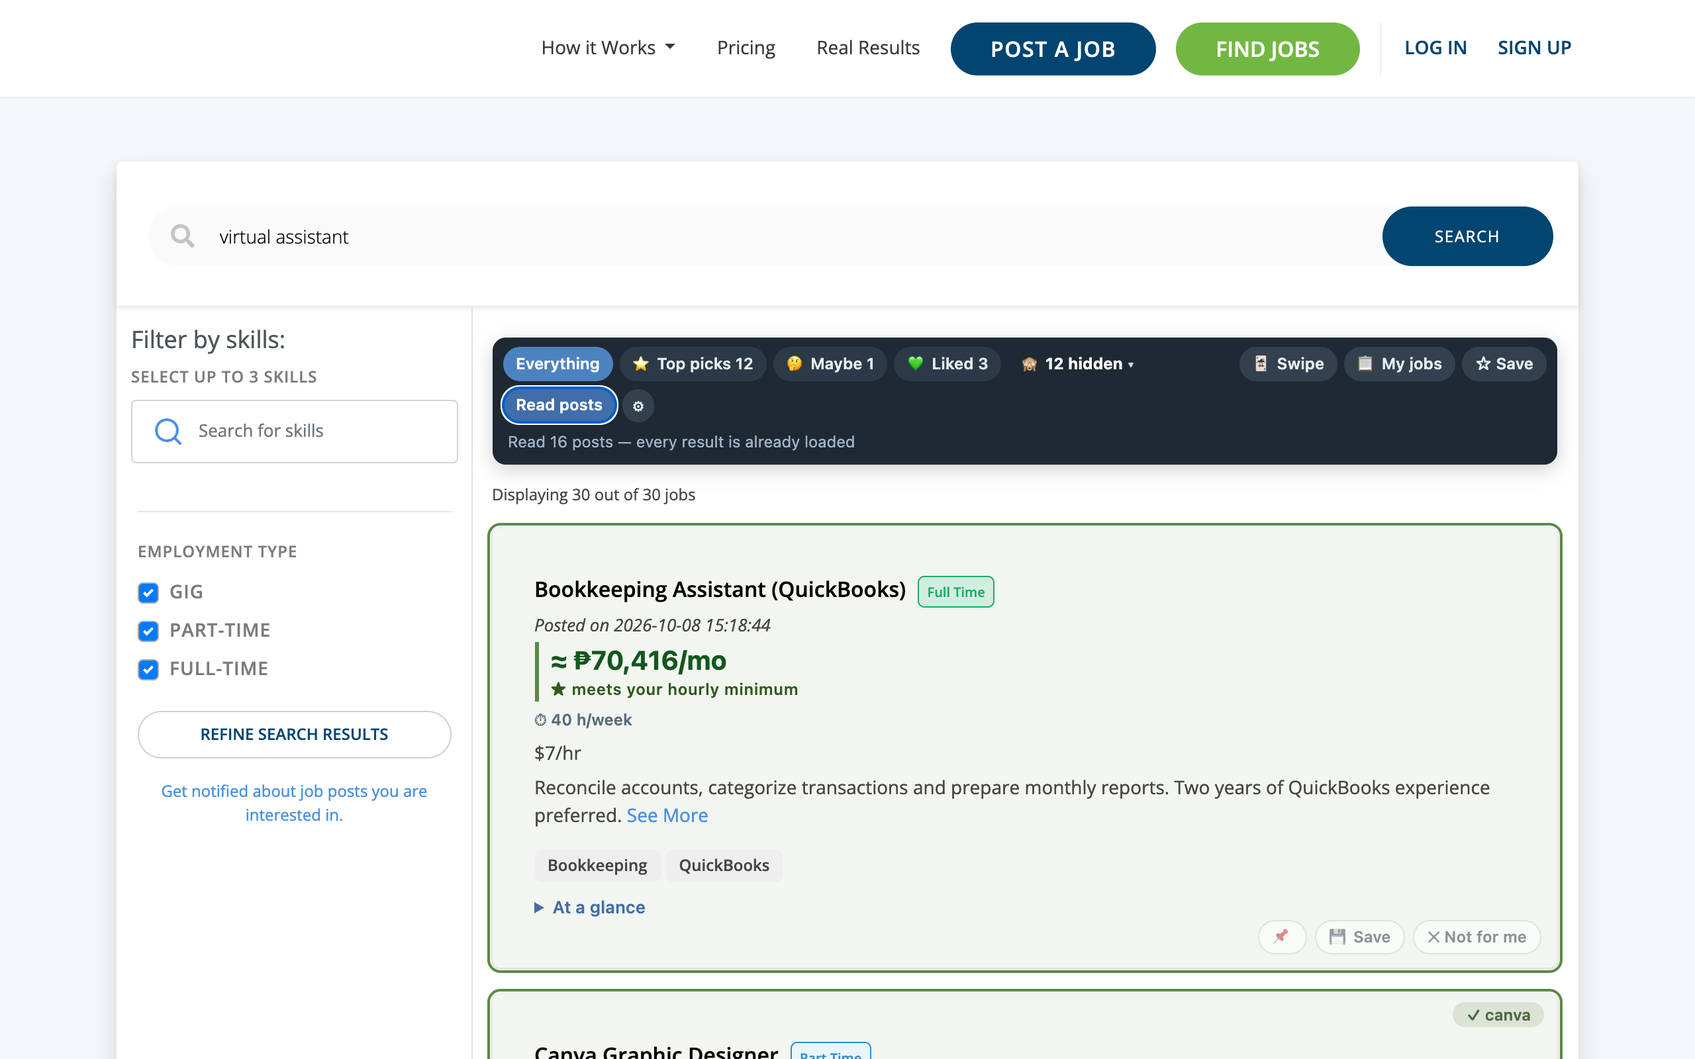
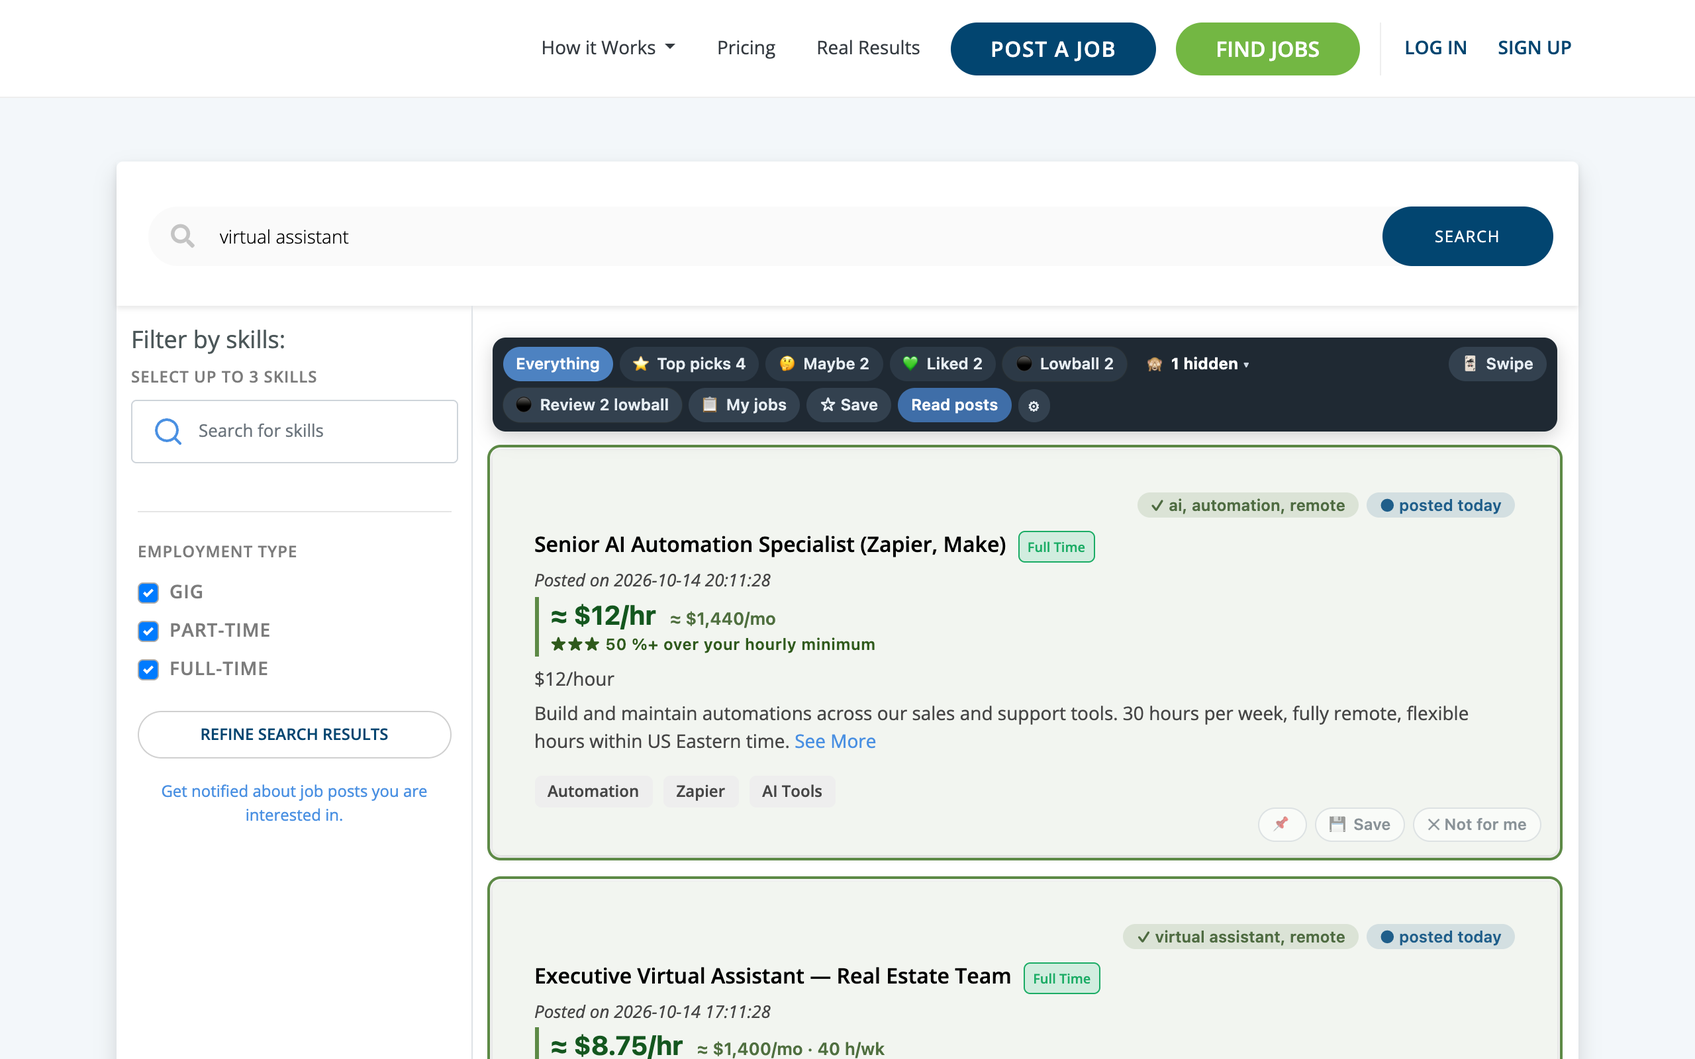
0.18.1: new README and store media on a made-up board; store copy for the hourly rate
- Every screenshot, both README GIFs (the bar, the five-screen setup) and all five
  store images re-recorded on invented listings: tools/fiction.mjs replaces the board
  with 12 made-up jobs (no company names, no logos, the site's logo hidden), so no
  real employer appears. capture-screens.js uses it unless --live; record-gifs.mjs
  is new and records the GIFs the same way. New shots: the one-at-a-time lowball
  review and setup's kind-of-work screen (store screenshots 4 and 5).
- Store summary and description lead with the real hourly rate, lowball reporting
  one listing at a time, presets and gigs; data disclosure names the one write.
- Currency conversion keeps centavos: "$12/hour" no longer shows as $12.01/hr.
- The "Let's report" prompt no longer states a count it could get wrong.

diff --git a/tools/capture-screens.js b/tools/capture-screens.js
@@ -24,9 +24,12 @@
 //   --keep-settings       do not restore the previous settings afterwards
 //   --scan                press Scan and wait for it to finish before capturing. Slow, and it
 //                         reads listing pages for real — off by default.
+//   --live                capture the REAL board. Off by default: the media are recorded on a made-up board
+//                         (tools/fiction.mjs) so no real employer ever appears in the README or the store.
 'use strict';
 
 import { openTab, withTab } from './cdp.mjs';
+import { FICTION_SETTINGS, applyFiction } from './fiction.mjs';
 import fs from 'node:fs';
 import path from 'node:path';
 
@@ -41,6 +44,7 @@ const URL_ = arg('url', 'https://www.onlinejobs.ph/jobseekers/jobsearch?jobkeywo
 const KEEP = flag('keep-settings');
 const DO_SCAN = flag('scan');
 const DO_RELOAD = flag('reload');
+const FICTION = !flag('live');
 
 const HERE = path.dirname(new URL(import.meta.url).pathname.replace(/^\/([A-Za-z]:)/, '$1'));
 const OUT = path.resolve(HERE, '..', 'docs/img');
@@ -116,7 +120,7 @@ async function restore() {
 }
 
 try {
-  await store.evaluate(`chrome.storage.local.set({ settings: ${JSON.stringify(SETTINGS)} }).then(()=>1)`);
+  await store.evaluate(`chrome.storage.local.set({ ui: { onboarded: true }, settings: ${JSON.stringify(FICTION ? FICTION_SETTINGS : SETTINGS)} }).then(()=>1)`);
 
   console.log('\nscreenshots:');
   await withTab(PORT, 'about:blank', async (tab) => {
@@ -131,6 +135,10 @@ try {
     // The rule pass is rAF-scheduled and salary conversion waits on the FX rate; give both
     // time to settle so the capture shows final figures rather than skeletons.
     await sleep(3000);
+    if (FICTION) { console.log('  ' + await applyFiction(tab)); await sleep(5000); }
+    // The "Let's report them" prompt is a toast over the board — close it so it covers no card in the shots.
+    await tab.evaluate(`(()=>{const t=document.querySelector('#ojc-toast button[aria-label=Dismiss]'); if(t) t.click(); return 1})()`);
+    await sleep(300);
 
     if (DO_SCAN) {
       console.log('  running Scan (this reads listing pages for real)…');
@@ -162,7 +170,7 @@ try {
     // rect read in the same call as scrollIntoView() is measured mid-animation and the clip
     // lands offset from the card.
     const scrolled = await tab.evaluate(`(()=>{
-      const mark = document.querySelector('.ojc-pos, .ojc-recon, .ojc-tier-badge, .ojc-pos-badge');
+      const mark = [...document.querySelectorAll('.jobpost-cat-box.latest-job-post')].find(c => /Executive Virtual Assistant/.test(c.textContent)) || document.querySelector('.ojc-pos, .ojc-recon, .ojc-tier-badge, .ojc-pos-badge');
       if (!mark) return 0;
       const card = mark.closest('.jobpost-cat-box.latest-job-post') || mark.parentElement;
       card.scrollIntoView({ block: 'center', behavior: 'instant' });
@@ -175,13 +183,13 @@ try {
       // make-store-images letterboxes it onto the 1280x800 canvas instead.
       await tab.send('Emulation.setDeviceMetricsOverride', { ...VIEW, width: 1680, height: 1050 });
       await tab.evaluate(`(()=>{
-        const mark = document.querySelector('.ojc-pos, .ojc-recon, .ojc-tier-badge, .ojc-pos-badge');
+        const mark = [...document.querySelectorAll('.jobpost-cat-box.latest-job-post')].find(c => /Executive Virtual Assistant/.test(c.textContent)) || document.querySelector('.ojc-pos, .ojc-recon, .ojc-tier-badge, .ojc-pos-badge');
         const card = mark.closest('.jobpost-cat-box.latest-job-post') || mark.parentElement;
         card.scrollIntoView({ block: 'center', behavior: 'instant' });
         return 1})()`);
       await sleep(900);
       const cardRect = JSON.parse(await tab.evaluate(`(()=>{
-        const mark = document.querySelector('.ojc-pos, .ojc-recon, .ojc-tier-badge, .ojc-pos-badge');
+        const mark = [...document.querySelectorAll('.jobpost-cat-box.latest-job-post')].find(c => /Executive Virtual Assistant/.test(c.textContent)) || document.querySelector('.ojc-pos, .ojc-recon, .ojc-tier-badge, .ojc-pos-badge');
         const card = mark.closest('.jobpost-cat-box.latest-job-post') || mark.parentElement;
         const r = card.getBoundingClientRect();
         return JSON.stringify({ x: Math.max(0, r.x + window.scrollX), y: Math.max(0, r.y + window.scrollY),
@@ -195,6 +203,15 @@ try {
     }
 
     // The settings panel, clipped to its own box so the shot is the panel and nothing else.
+    // D73: the one-at-a-time lowball review, on the first lowball card.
+    const reviewed = await tab.evaluate(`(()=>{const b=document.getElementById('ojc-report-low'); if(!b||b.hidden) return 0; b.click(); return 1})()`);
+    if (reviewed) {
+      await sleep(1500);
+      await shot(tab, path.join(OUT, 'lowball-review.png'));
+      await tab.evaluate(`(()=>{const s=document.querySelector('.ojc-review-stop'); if(s) s.click(); const t=document.querySelector('#ojc-toast button[aria-label=Dismiss]'); if(t) t.click(); window.scrollTo(0,0); return 1})()`);
+      await sleep(800);
+    } else console.log('  (no lowball on this page — skipping lowball-review.png)');
+
     await tab.evaluate(`(()=>{const g=document.getElementById('ojc-gear'); if(g) g.click(); return 1})()`);
     await waitFor(tab, `document.getElementById('ojc-panel') && !document.getElementById('ojc-panel').hidden`,
       { timeout: 8000, label: 'the options panel (#ojc-panel)' });
@@ -234,6 +251,15 @@ try {
       if(b) { b.style.maxHeight = ''; b.style.overflowY = ''; }
       return 1})()`);
     await tab.send('Emulation.setDeviceMetricsOverride', VIEW);
+    await sleep(300);
+
+    // D68: setup's first screen, with two kinds of work picked.
+    await tab.evaluate(`(()=>{const r=document.getElementById('ojc-rerun-setup'); if(r) r.click(); return 1})()`);
+    await sleep(900);
+    await tab.evaluate(`(()=>{for (const t of ['General VA','Customer Support']) { const b=[...document.querySelectorAll('.ojc-archebtn')].find(x=>x.textContent.includes(t)); if(b) b.click(); } return 1})()`);
+    await sleep(600);
+    await shot(tab, path.join(OUT, 'setup-presets.png'));
+    await tab.evaluate(`(()=>{const s=document.getElementById('ojc-setup-skip'); if(s) s.click(); return 1})()`);
     await sleep(300);
     await tab.send('Emulation.clearDeviceMetricsOverride');
   }, 0);

diff --git a/test-salary.js b/test-salary.js
@@ -83,8 +83,8 @@ assert.strictEqual(parseSalary('$5+/- per hour US - depends on experience & skil
 assert.deepStrictEqual(monthly('$5+/- per hour US - depends on experience & skills', FT), [800, 800, 'USD'],
   'full time → 5 × 160');
 assert.strictEqual(toPhp(parseSalary('$5/hour'), { USD: 62.7 }), null, 'no hours → toPhp refuses');
-assert.deepStrictEqual(ratePhp(parseSalary('$5/hour'), { USD: 62.7 }), { min: 314, max: 314 },
-  'the posted rate itself is still converted and shown');
+assert.deepStrictEqual(ratePhp(parseSalary('$5/hour'), { USD: 62.7 }), { min: 313.5, max: 313.5 },
+  'the posted rate itself is still converted and shown — to the centavo, so $5 comes back as $5.00');
 assert.strictEqual(formatRate({ min: 314, max: 314 }, 'hour'), '≈ ₱314/hr');
 assert.strictEqual(formatNote(null), null);
 // with the hours, the same listing gets a month
@@ -150,6 +150,9 @@ for (const timeUnit of ['Php200.00 - 210.00 Per Hour', 'Php 1000/day', '$5/hr', 
 assert.deepStrictEqual(toPhp(parseSalary('Php 30,000'), {}), { min: 30000, max: 30000 }, 'PHP needs no rate');
 assert.strictEqual(toPhp(parseSalary('$880'), {}), null, 'no rate → no converted figure, never a guess');
 assert.deepStrictEqual(toPhp(parseSalary('$880'), { USD: 62.7 }), { min: 55176, max: 55176 });
+// Round trip: a posted dollar rate shown in dollars is the posted rate, not a cent off (was "$12.01/hr" for $12).
+assert.strictEqual(formatRate(ratePhp(parseSalary('$12/hour'), { USD: 62.738 }), 'hour', { code: 'USD', rate: 62.738 }), '≈ $12/hr');
+assert.strictEqual(formatRate(ratePhp(parseSalary('$3/hour'), { USD: 62.738 }), 'hour', { code: 'USD', rate: 62.738 }), '≈ $3/hr');
 assert.deepStrictEqual(toPhp(parseSalary('$10 - $13 CAD per hour', FT), { USD: 62.7 }), null,
   'a CAD card must not be converted with a USD rate');
 

diff --git a/tools/make-store-images.js b/tools/make-store-images.js
@@ -107,6 +107,8 @@ const SHOT_JOBS = [
   ['list-chip.png', 'scale=1280:800:force_original_aspect_ratio=increase,crop=1280:800', '01-list-1280x800.png'],
   ['panel-in-page.png', 'scale=1280:800:force_original_aspect_ratio=increase,crop=1280:800', '02-settings-1280x800.png'],
   ['card-detail.png', FIT(), '03-card-1280x800.png'],
+  ['lowball-review.png', 'scale=1280:800:force_original_aspect_ratio=increase,crop=1280:800', '04-lowball-1280x800.png'],
+  ['setup-presets.png', 'scale=1280:800:force_original_aspect_ratio=increase,crop=1280:800', '05-setup-1280x800.png'],
 ];
 for (const [src, chain, dst] of SHOT_JOBS) {
   ffmpeg(['-i', path.join(SHOTS, src), '-vf', chain, '-frames:v', '1', path.join(OUT, dst)]);
@@ -130,7 +132,7 @@ shoot(frameHtml({
       Stop reading<br>dead listings.
     </div>
     <div style="margin-top:15px;font-size:12.5px;line-height:1.5;color:rgba(255,255,255,.76)">
-      Hides the stale, the unpaid and the keywords you hate. Highlights the ones worth your time.
+      Every job's real hourly rate, first. Hides the stale, the unpaid and the words you hate.
     </div>
   </div>`,
 }), 440, 280, path.join(OUT, 'promo-440x280.png'));
@@ -147,7 +149,7 @@ shoot(frameHtml({
       Stop reading<br>dead listings.
     </div>
     <div style="margin-top:24px;font-size:17px;line-height:1.6;color:rgba(255,255,255,.74);max-width:520px">
-      Hides the stale, the unpaid and the keywords you hate. Highlights the ones worth your time. Re-reads every listing in full when you ask it to.
+      Every job's real hourly rate, worked out from its own hours. Hides the stale, the unpaid and the words you hate, and flags lowball offers you can report.
     </div>
   </div>
   <div style="position:absolute;left:700px;top:64px;width:640px;height:432px;

diff --git a/labels.js b/labels.js
@@ -94,7 +94,9 @@
       check: '⚫? checking hours',
       checkTip: (floor) => `a monthly figure that could be under ${floor}/hour — the extension reads the post's own ` +
         'HOURS PER WEEK before calling it a lowball (Read posts opens these first)',
-      nudge: (n) => `⚫ ${n} lowball offer${n === 1 ? '' : 's'} on this board. Let's report ${n === 1 ? 'it' : 'these'}!`,
+      // No count: the prompt fires as the first lowball is marked, before the rest of the board's pay is worked out,
+      // and a number there was wrong ("1 lowball offer" on a board with 2). The bar's ⚫ pill holds the live count.
+      nudge: () => '⚫ This board has lowball offers. Let\'s report them!',
       nudgeBtn: 'Review them',
       bulk: (n) => `⚫ Review ${n} lowball`,
       bulkTip: 'go through the lowball listings on this board one at a time — you see each one and decide: Report, Skip or Stop',

diff --git a/salary.js b/salary.js
@@ -200,7 +200,10 @@
     if (currency === 'PHP') return { min: amount.min, max: amount.max };
     const rate = rates && rates[currency];
     if (!rate) return null;
-    return { min: Math.round(amount.min * rate), max: Math.round(amount.max * rate) };
+    // To the centavo, not the peso: whole pesos lost up to half a peso, and "$12/hour" came back as "$12.01/hr" and
+    // "$3/hour" as "$2.99/hr" beside a lowball tag saying $3.00 (seen 2026-10-14). Whole-peso DISPLAY is formatNote's job.
+    const c = (n) => Math.round(n * rate * 100) / 100;
+    return { min: c(amount.min), max: c(amount.max) };
   }
 
   /**

diff --git a/docs/store.md b/docs/store.md
@@ -11,10 +11,13 @@ change; the copy below is drop-in.
 | Screenshot 1 | **1280×800** (or 640×400), square corners, full bleed | `docs/img/store/01-list-1280x800.png` | ✅ |
 | Screenshot 2 | same | `docs/img/store/02-settings-1280x800.png` | ✅ |
 | Screenshot 3 | same | `docs/img/store/03-card-1280x800.png` | ✅ |
+| Screenshot 4 | same | `docs/img/store/04-lowball-1280x800.png` | ✅ |
+| Screenshot 5 | same | `docs/img/store/05-setup-1280x800.png` | ✅ |
 | Small promo tile | **440×280** — **required** | `docs/img/store/promo-440x280.png` | ✅ |
 | Marquee promo tile | 1400×560 — optional, front page | `docs/img/store/marquee-1400x560.png` | ✅ |
 
-At least 1 screenshot is required; 5 is the maximum, so there is room for two more later.
+At least 1 screenshot is required; 5 is the maximum, and all five are used. Every image is recorded
+on a made-up board (`tools/fiction.mjs`), so no real employer appears.
 Slot 1 is the list in context, slot 2 is the settings panel open over the live list, and slot 3
 is a single card up close (letterboxed onto the 1280×800 canvas — a result card is ~1608×584,
 so no 1.6:1 crop of one shows it whole without slicing the description mid-sentence).
@@ -22,8 +25,10 @@ so no 1.6:1 crop of one shows it whole without slicing the description mid-sente
 **Retake the captures, then cut them to size:**
 
 ```bash
-node tools/capture-screens.js        # drives the live site → docs/img/*.png
-node tools/make-store-images.js      # → icons/ + docs/img/store/
+OJC_SANDBOX_PORT=9454 node tools/sandbox.mjs              # a throwaway Chrome with this checkout
+node tools/capture-screens.js --port=9454                  # the made-up board → docs/img/*.png
+node tools/record-gifs.mjs --port=9454                     # → docs/img/bar.gif, setup.gif
+CHROME_BIN="/Applications/Google Chrome.app/Contents/MacOS/Google Chrome" node tools/make-store-images.js
 ```
 
 `capture-screens.js` drives the automation Chrome on :9333 (see `docs/HANDOFF.md` §2), opens its
@@ -48,10 +53,10 @@ The name is deliberately our own compound. `OnlineJobs.ph` appears **only in the
 description**, as a statement of compatibility — never in the name, and never as a claim of
 association. See §5.
 
-**Summary** (`manifest.json` → `description`, **hard limit 132 chars** — currently 126):
+**Summary** (`manifest.json` → `description`, **hard limit 132 chars** — currently 120):
 
 ```
-Hides stale, no-salary and keyword-matching jobs on OnlineJobs.ph, highlights the ones you want, and re-reads listings in full
+See every OnlineJobs.ph job's real hourly rate, hide stale, unpaid and unwanted posts, and flag lowball offers to report
 ```
 
 **Detailed description** (paste into the listing):
@@ -72,15 +77,21 @@ WHAT IT DOES
   the counts, filters to any of them, and never covers a listing.
 
 • Hides what you never want to read. Too old (60 days by default), no pay listed ("TBD",
-  "Negotiable", "DOE" — a label is not a number), and the words you block — matched as whole
-  words, so "ai" never matches "email". "Peek at hidden" shows everything it took away.
+  "Negotiable", "DOE" — a label is not a number), gigs that state no hours, and the words you
+  block — matched as whole words, so "ai" never matches "email". "Peek at hidden" shows
+  everything it took away.
 
-• Shows what a listing actually pays — in pesos or US dollars, your choice. "5.5$/hr",
-  "Php 1000/day" and "15-20 AUD per hour" become one comparable figure at the ECB's daily
-  reference rate, next to the site's own wording, which is never replaced.
+• Shows every job's real hourly rate, first. "5.5$/hr", "PHP 20,000 per month" and "15-20 AUD
+  per hour" become one comparable figure per hour, in pesos or US dollars, at the ECB's daily
+  reference rate. A monthly salary is divided by the post's OWN stated hours — so ₱20,000 for
+  45 hours a week reads ≈ $1.77/hr, and you can compare jobs that offer different hours.
 
-• Does not guess. A part-time rate that doesn't state its hours stays an hourly rate, and a
-  month assumed from "full time" says so on the card.
+• Never guesses a 40-hour week. "Full Time" is not a number: until a post's hours are known the
+  card shows "? /hr" with the month beside it, and Read posts goes and reads those posts first.
+
+• Flags lowball offers. A job that works out at $2/hr or less (your line) gets a black ⚫
+  outline. Report it to OnlineJobs.ph as "Salary too low" with the site's own report feature —
+  one listing at a time, each shown to you before anything is sent. Gigs are never judged.
 
 • Reads the full posts for you, on your terms. Two at a time, inside your recency window, with
   hard caps and a Stop button — then re-sorts every listing by its full description and ranks
@@ -102,7 +113,10 @@ WHAT IT DOES
 • Checks all your saved searches at once, when you press the button: their new listings join
   the board you are on, de-duplicated, one request at a time.
 
-• First run takes 30 seconds: what you're hunting, the least you'd take, and your instant no's.
+• First run takes a minute: pick your kind of work (15 presets, from General VA to Medical VA)
+  and your experience level, and both keyword lists fill themselves in. Then the least you'd
+  take, and your instant no's. Words match as whole words, plurals included; design* widens a
+  word, =lead pins it.
 
 PRIVACY
 
@@ -112,8 +126,8 @@ PRIVACY
 • The only third-party call is a public exchange rate (ECB, via frankfurter.dev), asked
   once per currency per 24 hours and only when a listing on screen pays in that currency.
   No amount, keyword, or anything about you is sent.
-• The only thing ever sent to OnlineJobs.ph is a "Salary too low" report you send yourself with a click,
-  through the site's own report feature, capped per day.
+• The only thing ever sent to OnlineJobs.ph is a "Salary too low" report you send yourself, one
+  listing at a time, through the site's own report feature, capped per day.
 • Keywords, toggles, cached rates and per-listing verdicts stay in local storage. Listing
   pages a scan read are cached in IndexedDB, on the site's own origin.
 • The content script runs only on onlinejobs.ph and contacts no other host.
@@ -155,8 +169,11 @@ The honest qualifications, if a field invites detail:
 - **Website content is read but not collected.** The content script reads the listing text
   on the page in front of the user in order to decide what to hide or highlight. That text
   is processed locally and never leaves the device.
-- **The one outbound request** is a plain `GET` for a public ECB exchange rate. It contains
+- **The one third-party request** is a plain `GET` for a public ECB exchange rate. It contains
   no user data — no amount, no keyword, nothing identifying.
+- **The one write to OnlineJobs.ph** is its own "Salary too low" report (job id, reason 1, a
+  short note), sent only when the user presses Report for that one listing, from their own
+  signed-in tab. Nothing about the user is sent to us — there is no "us" to send it to.
 - **`host_permissions` is one site.** No other host is contacted, and the extension has no
   remote code.
 

diff --git a/README.md b/README.md
@@ -20,7 +20,7 @@ turns every salary into one comparable number, and remembers your calls so tomor
 [Privacy](#privacy) ·
 [Full guide](docs/guide.md)
 
-<img src="docs/img/bar.gif" alt="The bar filters the board to Top picks, then Liked, then opens the hidden breakdown, peeks at the hidden cards and hides them again" width="760">
+<img src="docs/img/bar.gif" alt="The bar filters the board to Top picks, Maybe and Lowball, then opens the hidden breakdown and peeks at the hidden gig with no hours" width="760">
 
 ▶ **[Watch the 50-second demo](docs/video/ojph-cleaner-demo.mp4)**<br>
 <sub>Every listing in these recordings and screenshots is made up. No real employer appears.</sub>
@@ -53,12 +53,12 @@ filled, edit freely), the least you'd take, and your instant no's. A word one pi
 hidden by another pick. Finish replaces only what you answered, and offers Undo. ⚙ Settings has the
 same presets under *＋ Add words for…*.
 
-<img src="docs/img/setup.gif" alt="First-run setup: typing wanted words, a monthly minimum with the hourly suggested, and toggling blocked-word chips" width="760">
+<img src="docs/img/setup.gif" alt="First-run setup: picking General VA and Customer Support, then New to online work, the filled-in word lists with the matching guide, a minimum, and the instant no's" width="760">
 
 ### One bar that says what it did
 
-A slim bar sits on top of the site's own results. Pills filter to **⭐ Top picks**, **🤔 Maybe** or
-**💚 Liked** without reordering anything. `🙈 N hidden ▾` breaks the hidden count down by reason, and
+A slim bar sits on top of the site's own results. Pills filter to **⭐ Top picks**, **🤔 Maybe**,
+**💚 Liked** or **⚫ Lowball** without reordering anything. `🙈 N hidden ▾` breaks the hidden count down by reason, and
 *Peek at hidden* brings them back with a red dashed outline, so the decision stays yours.
 
 | The bar and its counts | Settings, in place |
@@ -90,12 +90,22 @@ board the same way: per hour first, highest first.
 `bi-weekly`, `semi-monthly` and `36K` are read as what they mean. Jobs at or above your minimum light
 up; trust tags flag what deserves a second look.
 
-![A read listing: converted monthly pay, meets your minimum, 40 h/week, and the virtual assistant, wants you off OLJ and posted today tags](docs/img/card-detail.png)
+![A card led by its hourly rate, $8.75/hr, with $1,400/mo at the post's own 40 h/week beside it, 25 % over the hourly minimum](docs/img/card-detail.png)
 
 Words you're into never hide anything. They mark the card with a green outline and a `✓ word`
 badge, so a job you want stands out instead of disappearing by mistake:
 
 ![A card that mentions a word you're into](docs/img/highlight.png)
+
+### Lowball offers: report them one at a time
+
+A listing that works out at **$2/hr or less** (your line, in Settings) gets a black ⚫ outline. Its tag is a
+button that asks before it files OnlineJobs.ph's own *Salary too low* report. `⚫ Review N lowball` walks
+the rest one by one: each card is outlined in gold, its figure shown, and nothing is sent until you press
+*Report this one*, so a false positive is never reported by accident. Gigs and whole-job prices are never
+judged.
+
+![Reviewing lowball offers one at a time: the card outlined in gold, its $1.88/hr figure, and Report, Skip and Stop](docs/img/lowball-review.png)
 
 ### Swipe through the shortlist
 
